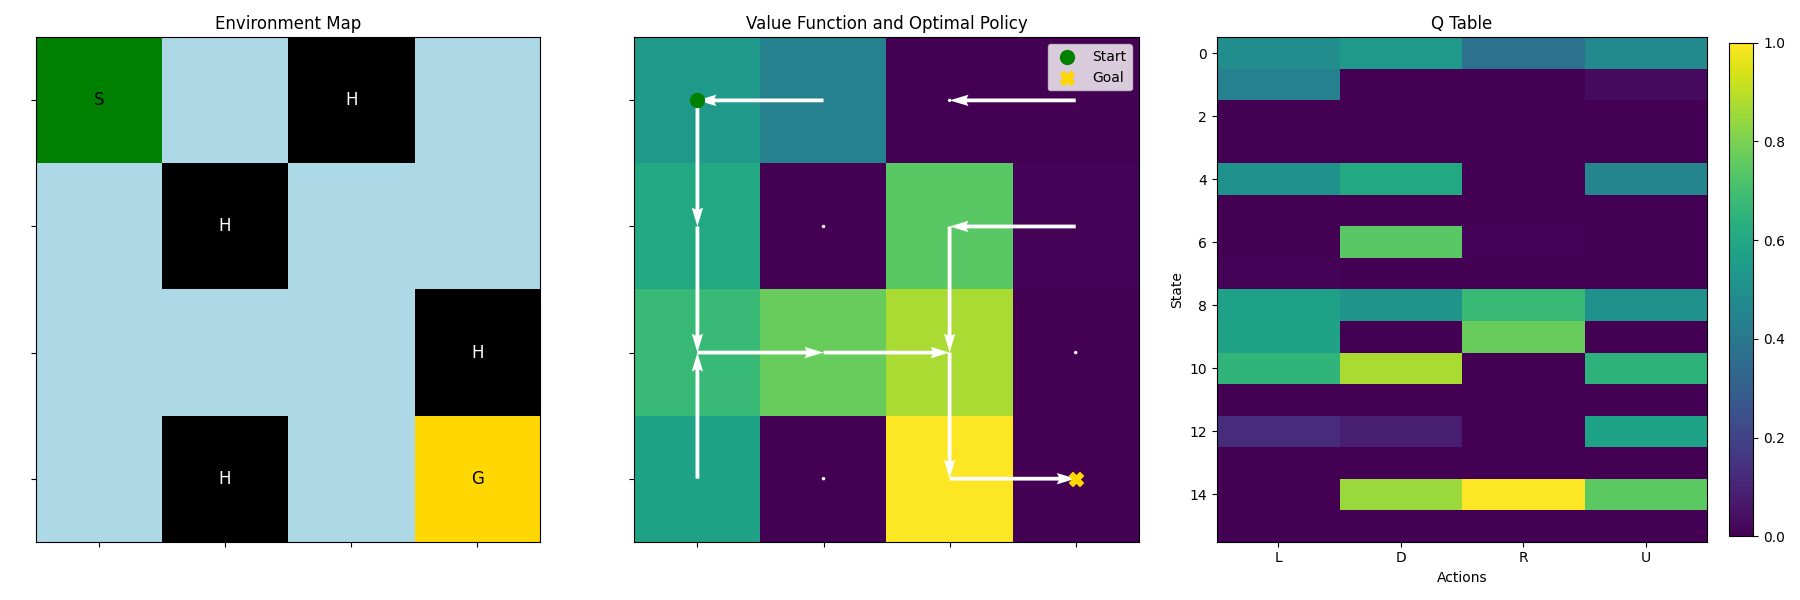
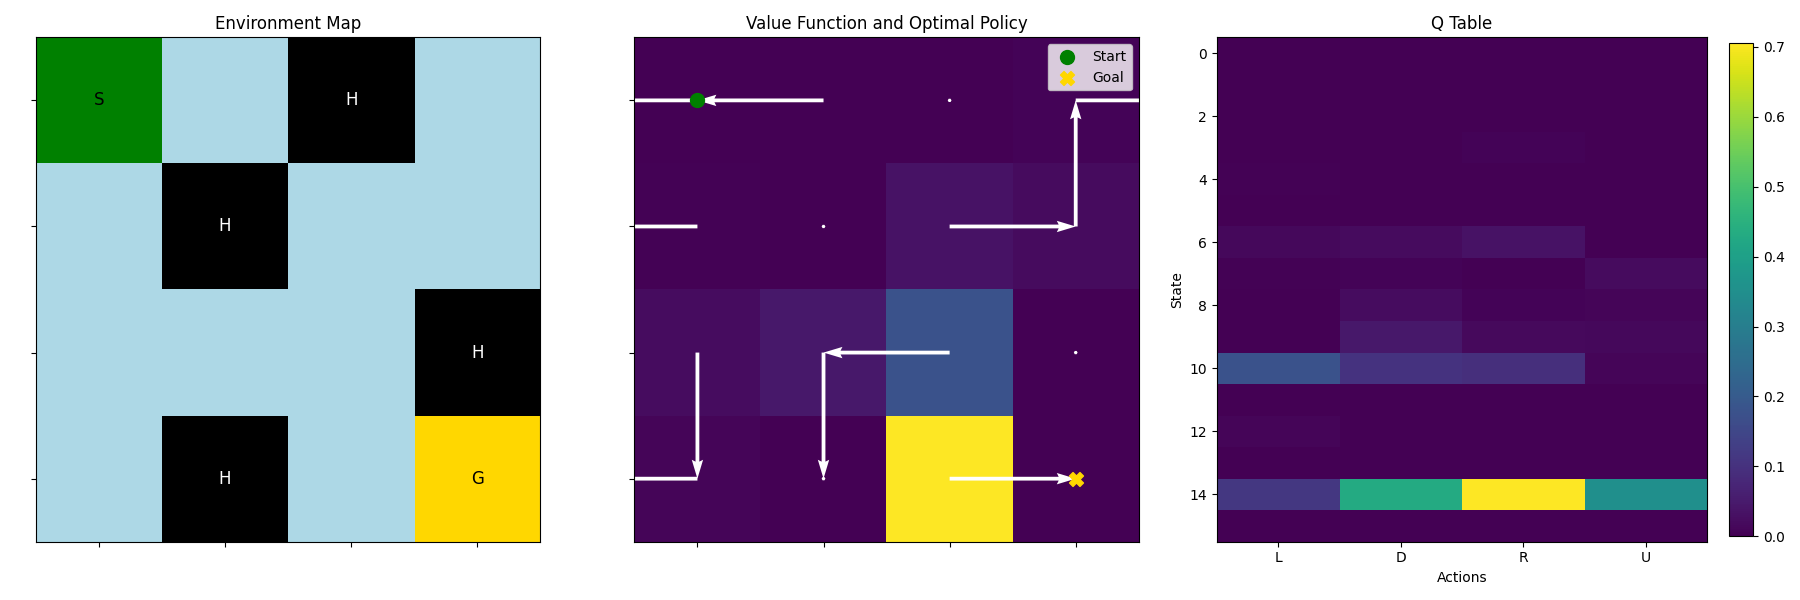
final touches

diff --git a/main.py b/main.py
@@ -43,23 +43,23 @@ def update_Q(Q, episode, alpha, discount_factor):
 
 # Params
 rng_seed = 42
-env_size = 4
-num_episodes = 10000
-alpha = 0.02
+env_size = 8
+num_episodes = 1000000
+alpha = 0.005
 epsilon_0 = 1.0
-epsilon_decay = 0.999
+epsilon_decay = 0.9999
 epsilon_min = 0.05
-discount_factor = 0.9
-is_slippery = False
+discount_factor = 0.6
+is_slippery = True
 
 # Run
-np.random.seed(rng_seed)
 env = gym.make(
     "FrozenLake-v1",
     map_name="4x4",
     is_slippery=is_slippery,
     desc=generate_random_map(size=env_size, seed=rng_seed),
 )
+np.random.seed(rng_seed)
 Q = np.zeros([env.observation_space.n, env.action_space.n])
 epsilon = epsilon_0
 for i in range(num_episodes):

diff --git a/README.md b/README.md
@@ -1,0 +1,9 @@
+# Monte Carlo Q-Learning for Frozen Lake Environment
+
+Simple implementation of a first visit, constant alpha, epsilon-greedy Monte Carlo Q-Learning algorithm for the discrete [Frozen Lake environment](https://gymnasium.farama.org/environments/toy_text/frozen_lake/). 
+
+Here's a pic showing the environment, the learned policy and the value function:
+
+![Frozen Lake](Q8.png)
+
+Still need to mess with hyperparameters in the the slippery environment (and perhaps use a better algorithm), but it works fine for the deterministic case.
